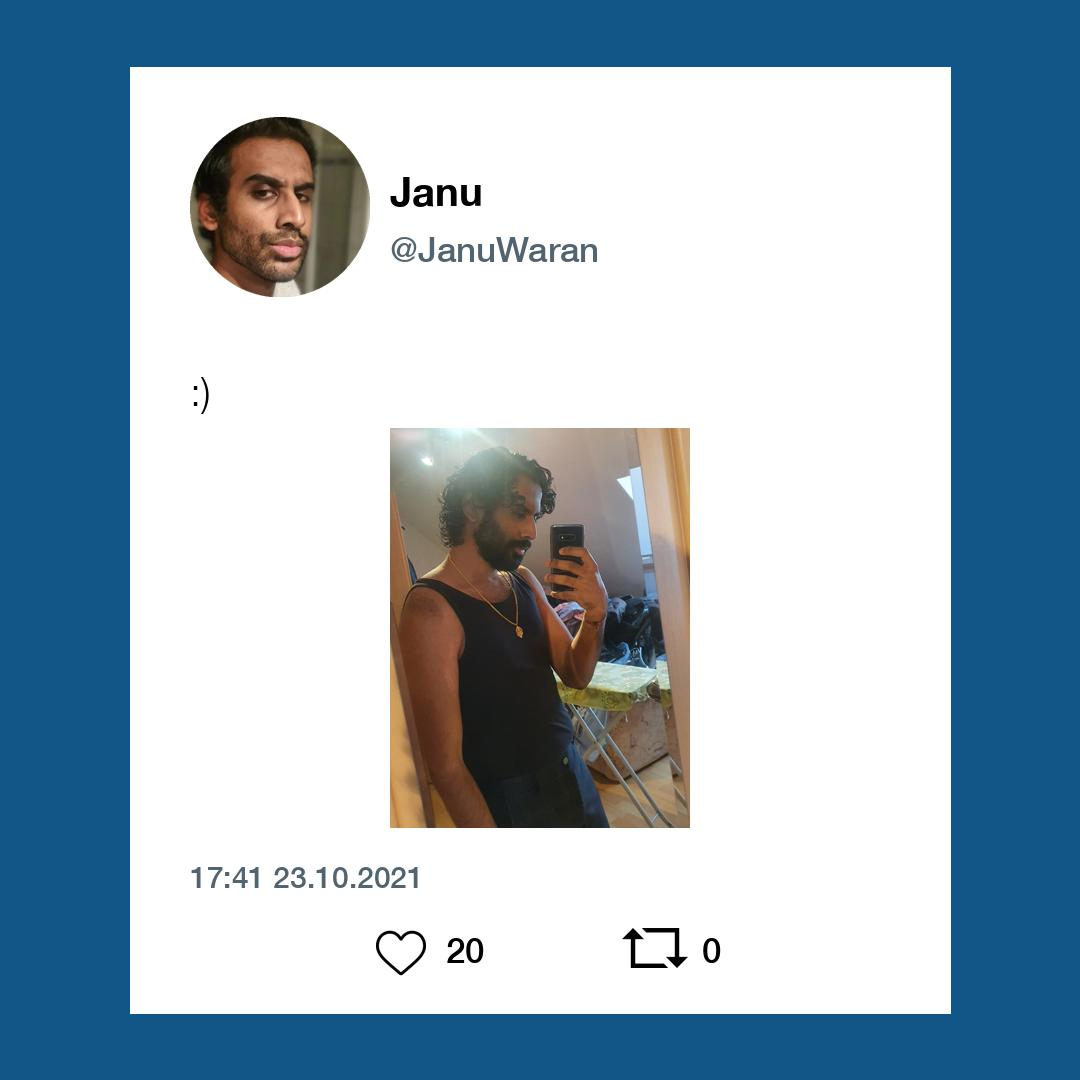
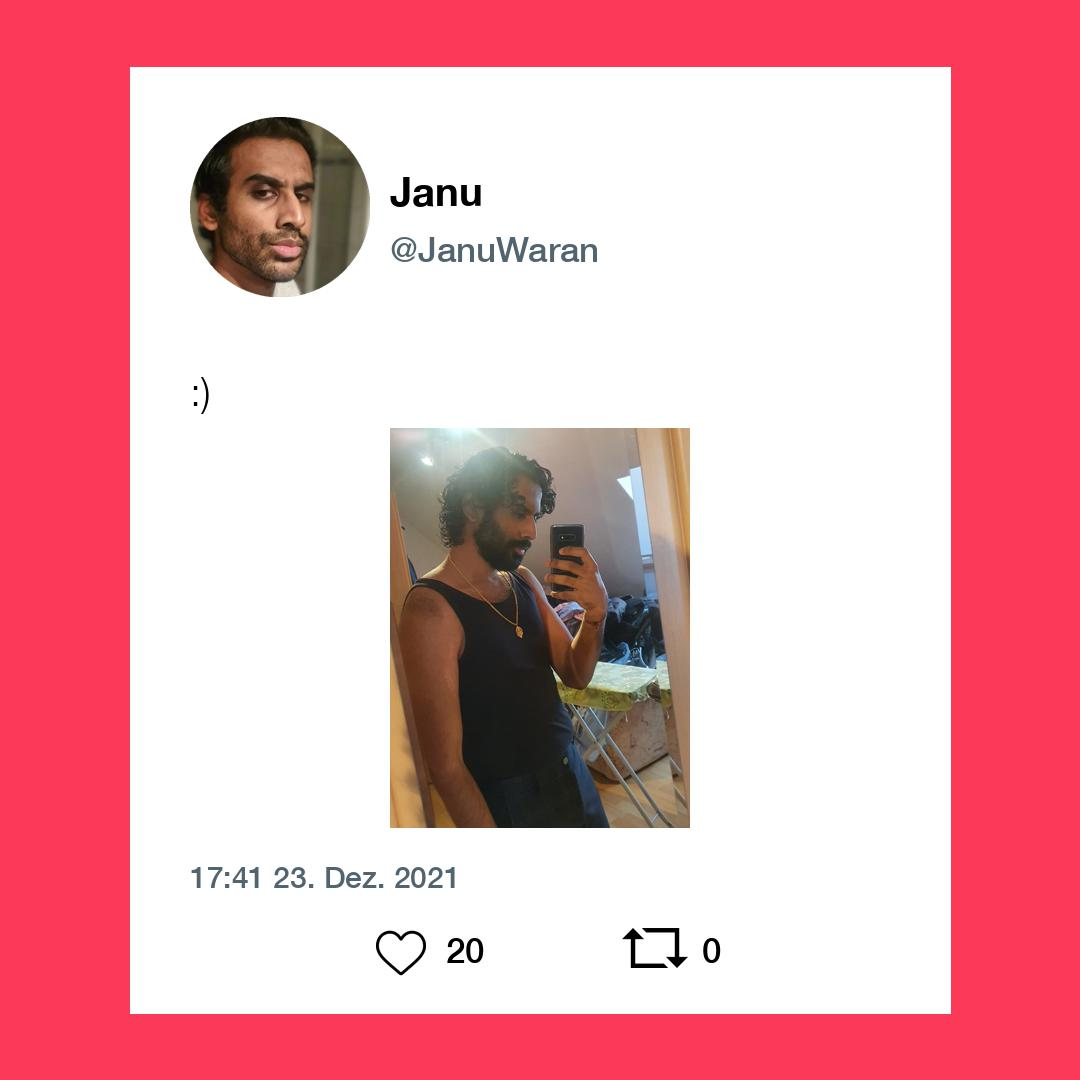
Months written out

diff --git a/main.py b/main.py
@@ -285,7 +285,8 @@ def tweet_to_image(name, username, showFavsRt, show_date, tweet, tweet_timestamp
         tweet_timestamp2 = tweet_timestamp.split("-")
         tweet_timestamp3 = tweet_timestamp2[2].split(" ")
         tweet_timestamp4 = tweet_timestamp3[1].split(":")
-        tweet_timestamp = tweet_timestamp4[0]+":"+tweet_timestamp4[1]+" "+tweet_timestamp3[0]+"."+tweet_timestamp2[1]+"."+tweet_timestamp2[0]
+        months = ["Jan.", "Feb.", "März", "Apr.", "Mai", "Juni", "Juli", "Aug.", "Sep.", "Okt.", "Nov.", "Dez."]
+        tweet_timestamp = tweet_timestamp4[0]+":"+tweet_timestamp4[1]+" "+tweet_timestamp3[0]+". "+months[int(tweet_timestamp2[1])+1]+" "+tweet_timestamp2[0]
         draw.text((tweet_w, fr_offset-20),tweet_timestamp,(83,100,113),font=date_font)
     img.save("tweet_images/" + str(tweet_id) + ".jpg")
     print("tweet_images/" + str(tweet_id) + ".jpg saved.")
